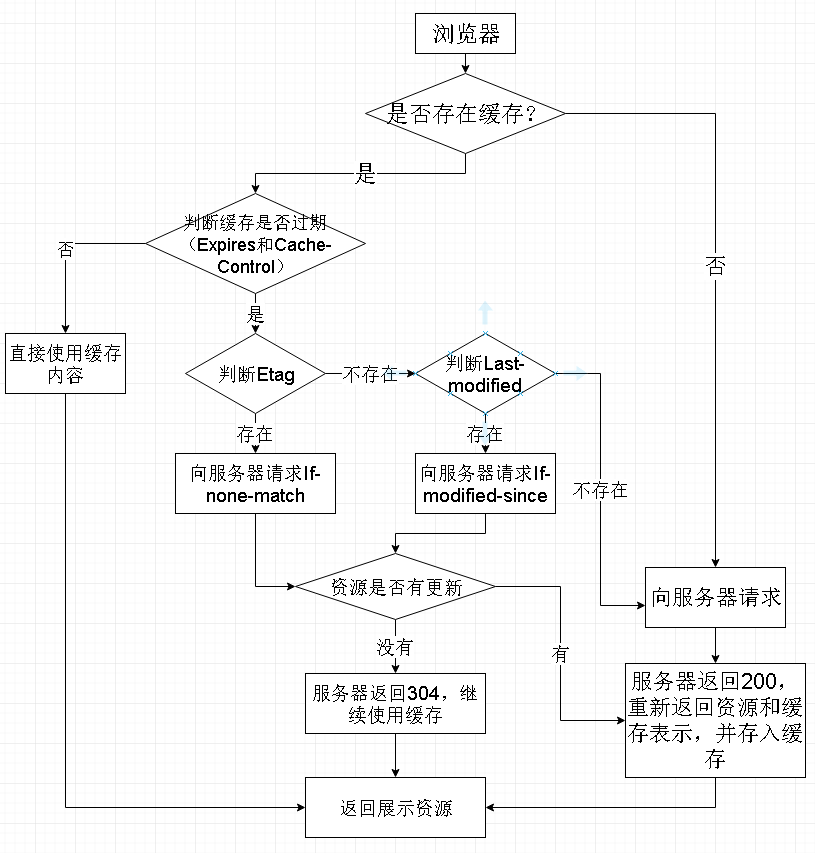
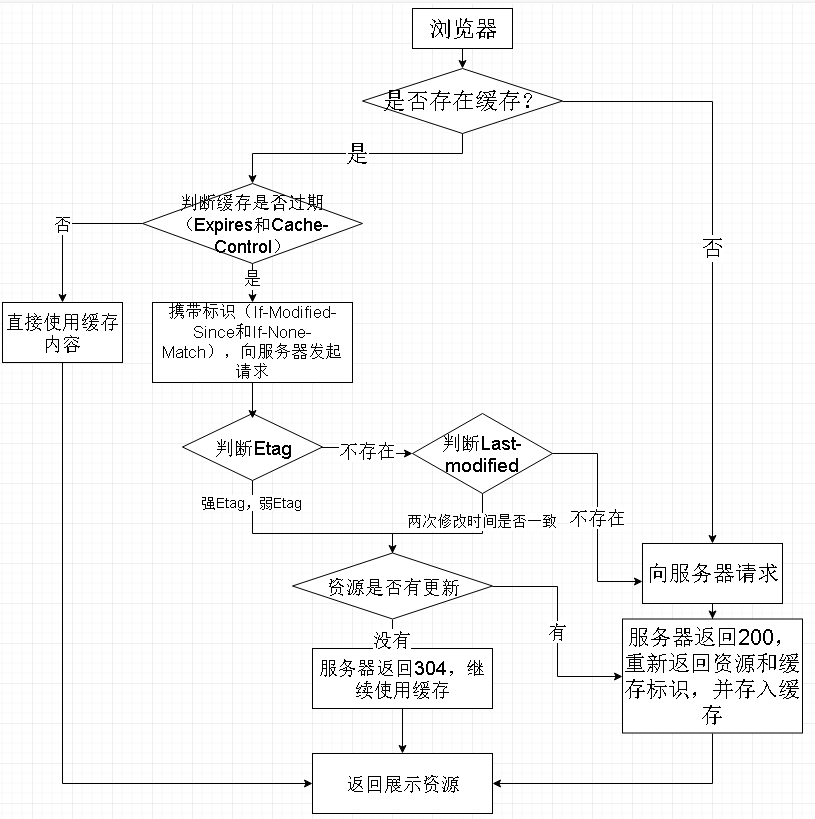
fix

diff --git a/review/网络安全/缓存相关 header.md b/review/网络安全/缓存相关 header.md
@@ -100,7 +100,7 @@ no-store
 
 - `max-stale[=<seconds>]`
 
-  表明客户端愿意接收一个已经过期的资源。可以设置一个可选的秒数，表示响应不能已经过时超过该给定的时间。
+  表明客户端愿意接收一个已经过期的资源。可以设置一个可选的秒数，表示响应不能已经过时超过该给定的时间。是从代理服务器获取资源。
 
 - `min-fresh=<seconds>`
 
@@ -149,7 +149,7 @@ no-store
 - 如果一致，则告诉浏览器：你可以继续用本地缓存。返回一个不带有消息主体的`304` 响应
 - 如果不一致，返回一个带有最近修改时间Last-Modified以及过期时间Expries以及消息主体的`200`响应。
 
-不同于`If-Unmodified-Since`, `If-Modified-Since` 只可以用在`GET`或`HEAD`请求中。
+不同于`If-Unmodified-Since`, `If-Modified-Since` <font color='red'>只可以用在`GET`或`HEAD`请求中</font>。
 
 当与`If-None-Match`一同出现时，会被忽略掉，除非服务器不支持 `If-None-Match`。
 
@@ -171,7 +171,7 @@ Last-Modified 过期时间只能精确到秒。
 精确到秒存在两个问题：
 
 - 浏览器给资源设置无缓存，资源在一秒内修改，浏览器拿不到最新资源。
-- 资源打开但没有修改也会更新`last-modified`的时间，服务器会因为时间匹配不上重新返回资源主体。
+- 资源打开并保存，但没有修改也会更新`last-modified`的时间，服务器会因为时间匹配不上重新返回资源主体。
 
 为了增加文件内容对比，引入了Etag
 
@@ -179,13 +179,17 @@ Last-Modified 过期时间只能精确到秒。
 
 ### Etag
 
-`Etag`响应头，是资源的特定版本的标识符。资源内容不改变，`Etag`不变。使用`ETag`有助于防止资源的同时更新相互覆盖（“空中碰撞”）。
+`Etag`响应头，是资源的特定版本的标识符。资源内容不改变，`Etag`不变。使用`ETag`和`If-match`有助于防止资源的同时更新相互覆盖（“空中碰撞”）。
 
 **语法**
 
-```
+```javascript
+//弱Etag值：根本发生变化，Etag值才会改变
 ETag: W/"<etag_value>"
+//例如：ETag: W/"0815"
+//强Etag值：无论内容发生多么细微的改变都会改变其值
 ETag: "<etag_value>"
+//例如：ETag: "33a64df551425fcc55e4d42a148795d9f25f89d4"
 ```
 
 **指令**
@@ -194,11 +198,11 @@ ETag: "<etag_value>"
 
   `'W/'`(大小写敏感) 表示使用弱验证器。 弱验证器很容易生成，但不利于比较。 强验证器是比较的理想选择，但很难有效地生成。 相同资源的两个弱`Etag`值可能语义等同，但不是每个字节都相同。
 
-- "<etag_value>"（无论内容发生多么细微的改变都会改变其值）
+- "<etag_value>"
 
-  实体标签唯一地表示所请求的资源。 它们是位于双引号之间的ASCII字符串（如“675af34563dc-tr34”）。通常，把内容通过散列算法得到它们，最后修改时间戳的哈希值，或简单地使用版本号。不。例如，MDN使用wiki内容的十六进制数字的哈希值。
+  实体标签，唯一地表示所请求的资源。 它们是位于双引号之间的ASCII字符串（如“675af34563dc-tr34”）。没有明确指定生成ETag值的方法，通常，把内容通过散列算法得到它们。最后修改时间戳的哈希值，或简单地使用版本号。例如，MDN使用wiki内容的十六进制数字的哈希值。
 
-### If-none-match
+### If-none-match(配合Etag缓存未更改的资源)
 
 请求头。上次请求同一资源时，服务器返回给浏览器的Etag。
 
@@ -218,19 +222,21 @@ ETag: "<etag_value>"
 
 当与`If-Modified-Since`一同使用的时候，`If-None-Match`优先级更高（假如服务器支持的话）。
 
-以下是两个常见的应用场景：
+##### 两个常见的应用场景：
 
-- 采用`GET`或`HEAD`方法，来更新拥有特定的`ETag`属性值的缓存。
+- 采用`GET`或`HEAD`方法，来**更新**拥有特定的`ETag`属性值的**缓存**。
 - 采用其他方法，尤其是`PUT`,将 `If-None-Match` used 的值设置为 * ，用来生成事先并不知道是否存在的文件，可以确保先前并没有进行过类似的上传操作，防止之前操作数据的丢失。这个问题属于更新丢失问题的一种。
 
-### If-match
+### If-match（配合Etag避免“空中碰撞”）
 
 请求首部。在请求方法为`GET`和`HEAD`的情况下，服务器仅在请求的资源满足此首部列出的 `ETag `之一时才会返回资源。而对于`PUT`或其他非安全方法来说，只有在满足条件的情况下才可以将资源上传。
+
+##### Notes
 
 `ETag`存储比较使用的是**强比较算法**，即只有在每一个比特都相同的情况下，才认为两个文件是相同的。采用相对宽松的算法可以在`ETag`前面添加`W/`。
 
 ##### 两个常见的应用场景：
 
-- 对于`GET`和`HEAD`方法，搭配`Range`首部使用，可以用来保证新请求的范围与之前请求的范围是对同一份资源的请求。如果 ETag 无法匹配，那么需要返回`416` (Not Satisfiable，范围请求无法满足) 响应。
-- 对于其他方法来说，尤其是`PUT`, `If-Match` 首部可以用来避免更新丢失问题。它可以用来检测用户想要上传的不会覆盖获取原始资源之后做出的更新。如果请求的条件不满足，那么需要返回 `412`(Precondition Failed，先决条件失败) 响应。
+- 对于`GET`和`HEAD`方法，搭配`Range`请求头使用，可以用来**保证**新请求的范围与之前请求的范围**是对同一份资源的请求**。如果 ETag 无法匹配，那么需要返回`416` (Not Satisfiable，范围请求无法满足) 响应。
+- 对于其他方法来说，尤其是`PUT`, `If-Match` 首部可以**用来避免更新丢失问题**。它可以用来检测用户想要上传的不会覆盖获取原始资源之后做出的更新。如果请求的条件不满足，那么需要返回 `412`(Precondition Failed，先决条件失败) 响应。
 
